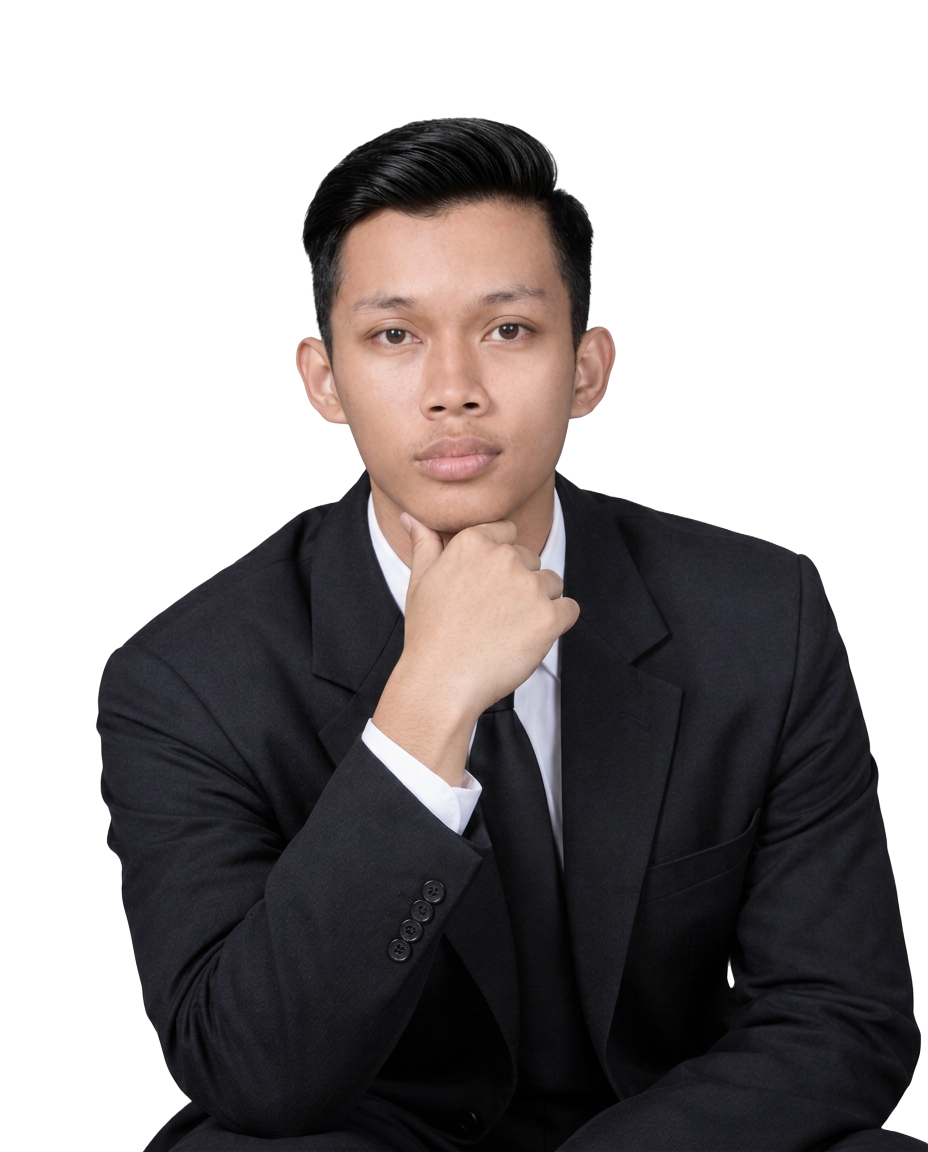
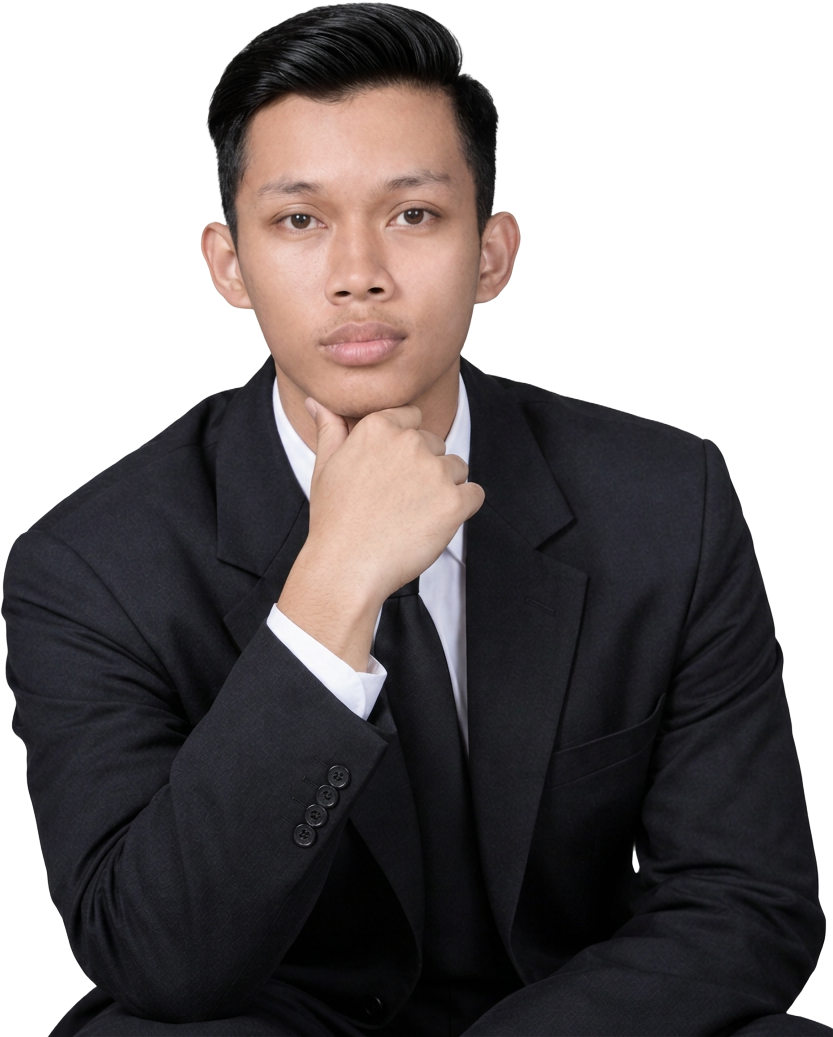
Changes

diff --git a/src/components/portfolio-sections.tsx b/src/components/portfolio-sections.tsx
@@ -3,13 +3,13 @@ import { Award, ArrowRight, Send, CalendarDays, BriefcaseBusiness, Globe } from 
 import { useState, type FormEvent } from "react";
 import { Button } from "@/components/ui/button";
 import { images, aboutDescription, workExperience, education, certifications, projects, updates } from "@/lib/portfolio-data";
-import portrait from "@/assets/satria-portrait.png.asset.json";
+import portrait from "@/assets/satria-cutout.png";
 
 export function SectionHeading({ title, kicker }: { title: string; kicker?: string }) {
  return <div className="section-heading">{kicker && <p className="kicker">{kicker}</p>}<h2 className="section-title">{title}</h2><div className="short-rule" /></div>;
 }
 export function HeroSection() {
-  return <section className="hero"><div className="site-container"><div className="hero-grid"><div className="hero-copy"><p className="kicker">Hello, I am</p><h1>Satria Nur<br />Ardiansyah</h1><p className="hero-role">CATALOGER ELINS STAFF</p><div className="short-rule" /><p className="hero-summary">Experienced in product and material standardization, data management, and administrative activities, with a focus on accurate cataloguing and procurement support.</p><Button asChild variant="portfolio" className="hero-action"><Link to="/portfolio">View Portfolio <ArrowRight /></Link></Button></div><div className="hero-portrait"><img src={portrait.url} alt="Satria Nur Ardiansyah" fetchPriority="high" /></div></div><div className="stats">{[{number:'3+',label:'Years Experience',Icon:CalendarDays},{number:'104',label:'Projects Completed',Icon:BriefcaseBusiness},{number:'3',label:'Web Development',Icon:Globe}].map(({number,label,Icon})=><div className="stat" key={label}><span className="stat-icon"><Icon size={24} strokeWidth={1.7} /></span><div><p className="stat-number">{number}</p><p className="stat-label">{label}</p></div></div>)}</div></div></section>;
+  return <section className="hero"><div className="site-container"><div className="hero-grid"><div className="hero-copy"><p className="kicker">Hello, I am</p><h1>Satria Nur<br />Ardiansyah</h1><p className="hero-role">CATALOGER ELINS STAFF</p><div className="short-rule" /><p className="hero-summary">Experienced in product and material standardization, data management, and administrative activities, with a focus on accurate cataloguing and procurement support.</p><Button asChild variant="portfolio" className="hero-action"><Link to="/portfolio">View Portfolio <ArrowRight /></Link></Button></div><div className="hero-portrait"><img src={portrait} alt="Satria Nur Ardiansyah" fetchPriority="high" /></div></div><div className="stats">{[{number:'3+',label:'Years Experience',Icon:CalendarDays},{number:'104',label:'Projects Completed',Icon:BriefcaseBusiness},{number:'3',label:'Web Development',Icon:Globe}].map(({number,label,Icon})=><div className="stat" key={label}><span className="stat-icon"><Icon size={24} strokeWidth={1.7} /></span><div><p className="stat-number">{number}</p><p className="stat-label">{label}</p></div></div>)}</div></div></section>;
 }
 export function AboutSection() {
  return <section className="page-section"><div className="site-container about-grid"><SectionHeading title="About Me" /><div><p className="body-copy">{aboutDescription}</p><div className="contact-list"><p><strong>Email:</strong><a href="mailto:satria62317@gmail.com">satria62317@gmail.com</a></p><p><strong>Location:</strong>Teuku Umar Street, Latsari 2 No. 57, Tuban, East Java</p><p><strong>Phone:</strong><a href="tel:+6281216130661">081216130661</a></p><p><strong>LinkedIn:</strong><a href="https://www.linkedin.com/in/satria-nur16" target="_blank" rel="noreferrer">www.linkedin.com/in/satria-nur16</a></p></div></div></div></section>;

diff --git a/src/styles.css b/src/styles.css
@@ -69,8 +69,8 @@
 .hero-action { margin-top:22px; }
 .portfolio-button { border:1px solid var(--primary); background:transparent; color:var(--primary); border-radius:24px; height:40px; padding-inline:20px; font-size:13px; font-weight:700; }
 .portfolio-button:hover { background:var(--primary); color:var(--primary-foreground); }
-.hero-portrait { min-width:0; width:100%; max-width:370px; height:390px; justify-self:end; overflow:hidden; border-radius:160px 160px 130px 130px; border:8px solid var(--border); }
-.hero-portrait img { display:block; width:100%; height:100%; object-fit:cover; object-position:50% 22%; }
+.hero-portrait { min-width:0; width:100%; max-width:370px; height:390px; justify-self:end; }
+.hero-portrait img { display:block; width:100%; height:100%; object-fit:contain; object-position:center bottom; border-radius:0 0 42% 42%; }
 .stats { display:grid; grid-template-columns:repeat(3,1fr); background:var(--card); border:1px solid var(--border); border-radius:8px; position:relative; margin-top:26px; box-shadow:var(--subtle-shadow); padding:20px 0; }
 .stat { padding:0 28px; display:flex; align-items:center; gap:17px; }
 .stat-icon { width:44px; height:44px; flex-shrink:0; border-radius:50%; display:flex; align-items:center; justify-content:center; background:var(--secondary); color:var(--primary); }
@@ -141,7 +141,7 @@
  .hero-copy { padding:10px 0; }
  .hero h1 { font-size:40px; }
  .hero-summary { font-size:14px; line-height:1.6; }
- .hero-portrait { width:230px; height:270px; justify-self:center; border-radius:110px 110px 85px 85px; border-width:5px; }
+ .hero-portrait { width:230px; height:270px; justify-self:center; }
  .stats { margin-top:24px; }
  .stats { padding:16px 0; }
  .stat { padding:0 8px; flex-direction:column; gap:9px; text-align:center; }
